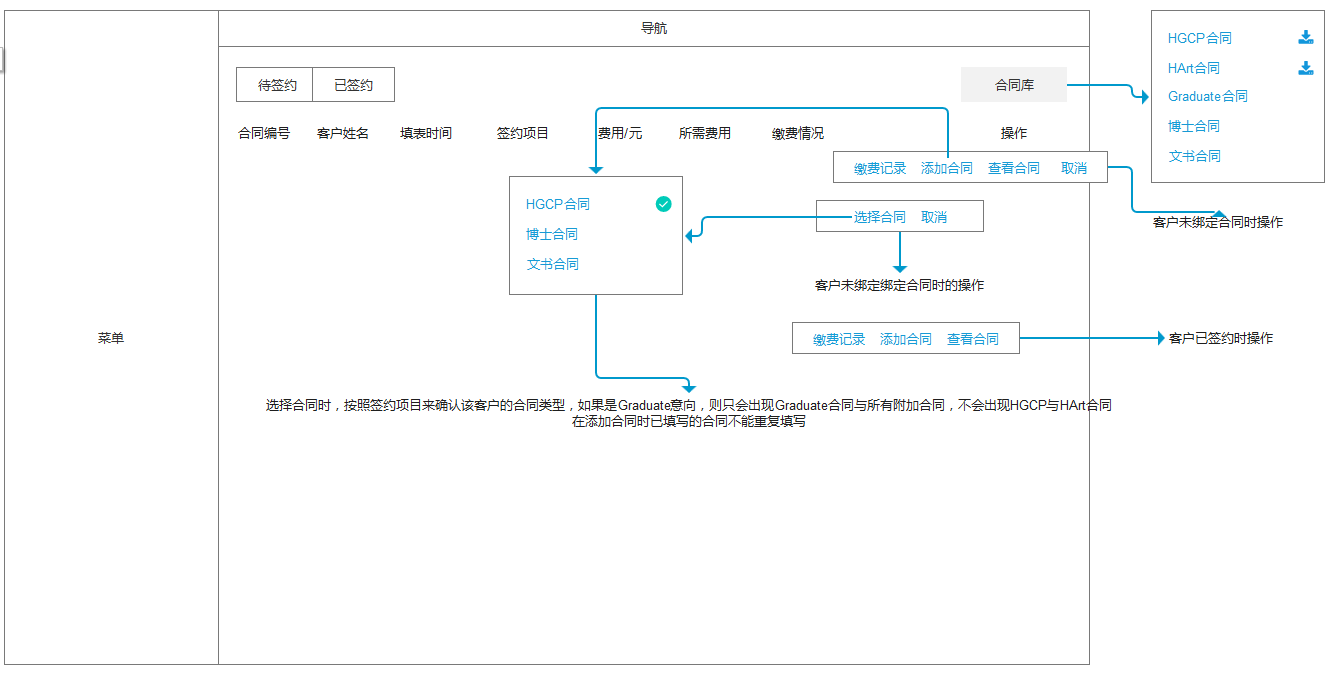
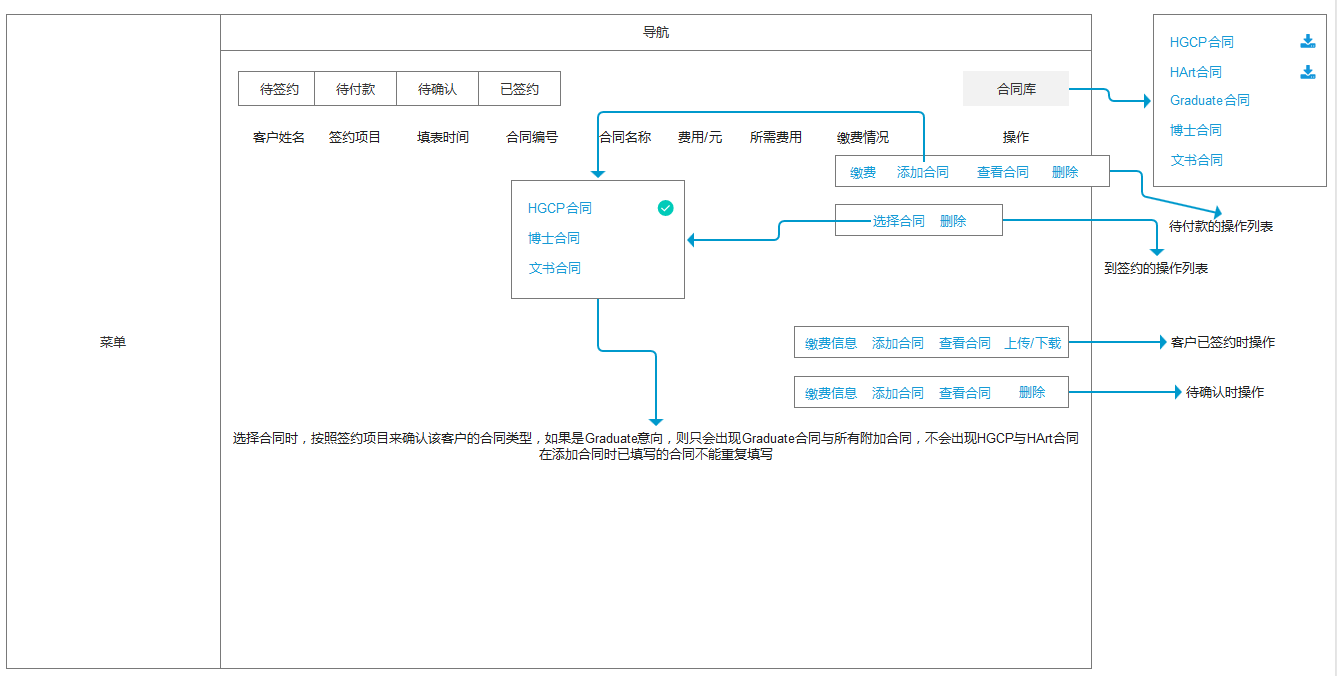
Updates he-chuang-cs-xiao-shou-duan-mo-kuai-gui-hua/zi-yuan-chi-mo-kuai/fu-kuan-ji-lu.md
Auto commit by GitBook Editor

diff --git a/he-chuang-cs-xiao-shou-duan-mo-kuai-gui-hua/guan-li-mo-kuai/he-tong-guan-li.md b/he-chuang-cs-xiao-shou-duan-mo-kuai-gui-hua/guan-li-mo-kuai/he-tong-guan-li.md
@@ -1,15 +1,32 @@
 ![](/assets/签约管理.png)
 
+- 该页面是以合同为导向，一条合同作为一条记录，其对应的缴费情况也是根据合同来计算。
+
 ## 待签约
 
-- 待签约状态下的合同可以取消，取消后仍然保留`添加合同`、`查看合同`功能。
+- 待签约是指可以有意向，但是未签约合同。
+- 待付款的合同有两种操作：`选择合同`、`删除`。
 - `添加合同`是指在跟进过程中需要添加其他的附属合同，已经签订的合同在未取消的情况下不能再次签。如果合同已取消后重新签约，查看合同时显示的为最新的合同。
 - 销售在跟进中，会触发资源面板中的`签约意向`中相应的标签，触发后资源依然保留在资源池中，在合同管理中的`待签约`一栏下会有相应的资源信息展示。
-- 填写合同之后，合同可以再次修改。
+
+## 待付款
+
+- 待签约是指可以已签约但未付款的合同。
+- 只要在系统中生成了合同，这条合同就会移动到待付款中。
+- 待付款的合同有四种操作：`缴费`、`查看合同`、`添加合同`、`删除`。
+
+## 待确认
+
+- 待签约是指可以已付款但是财务未确认的合同。
+- 只要在待付款合同下填写了缴费表，该条合同就会移动到待确认中。
+- 待付款的合同有四种操作：`缴费信息`、`查看合同`、`添加合同`、`删除`。
 
 ## 已签约
 
+- 财务确认后，该合同就会移动到已签约中。
 - 根据缴费确认情况判断：1、销售未确认付全款且财务未确认前，显示在`待签约`中，2、销售已确认付全款且财务已确认，显示在`已签约`中。
+- 待付款的合同有四种操作：`缴费信息`、`查看合同`、`添加合同`、`上传/下载`。
+>上传/下载是指在未上传最终合同扫描版，如果已上传则是下载合同。
 - 已签约的合同均不可修改。
 
 ## 合同库
@@ -20,3 +37,4 @@
 ## 1.1版调整
 
 - 添加退款列表。
+- 更新已上传合同扫描件。

diff --git a/he-chuang-cs-xiao-shou-duan-mo-kuai-gui-hua/zi-yuan-chi-mo-kuai/fu-kuan-ji-lu.md b/he-chuang-cs-xiao-shou-duan-mo-kuai-gui-hua/zi-yuan-chi-mo-kuai/fu-kuan-ji-lu.md
@@ -3,6 +3,6 @@
 - 客户签约后客户有可能会分次缴纳各种费用，再销售确认客户已缴纳完整费用之前，会展示在`本月已签约`的待付款客户中。
 - 收款状态由财务确认。
 - 缴费方式有：银行转账、刷卡、支付宝、其他四种，当选择`其他`时，需要手动输入缴费方式。
-- 如果用户是分期付款（已停止使用），那么每次的付款记录都需要记录且由财务核实。全款已确认之后，点击确认已付全款，则用户付款结束。
+- 不提供分期付款，客户需要一次性将费用缴纳，系统中也不提供多次录入费用的功能。
 - 添加了款项记录后，默认状态为：待确认，由财务来操作具体的到账情况，操作有会有：已到账、未到账两种结果。
 - 合同编号需要填写创建合同时的编号，后期会与合同关联起来。
